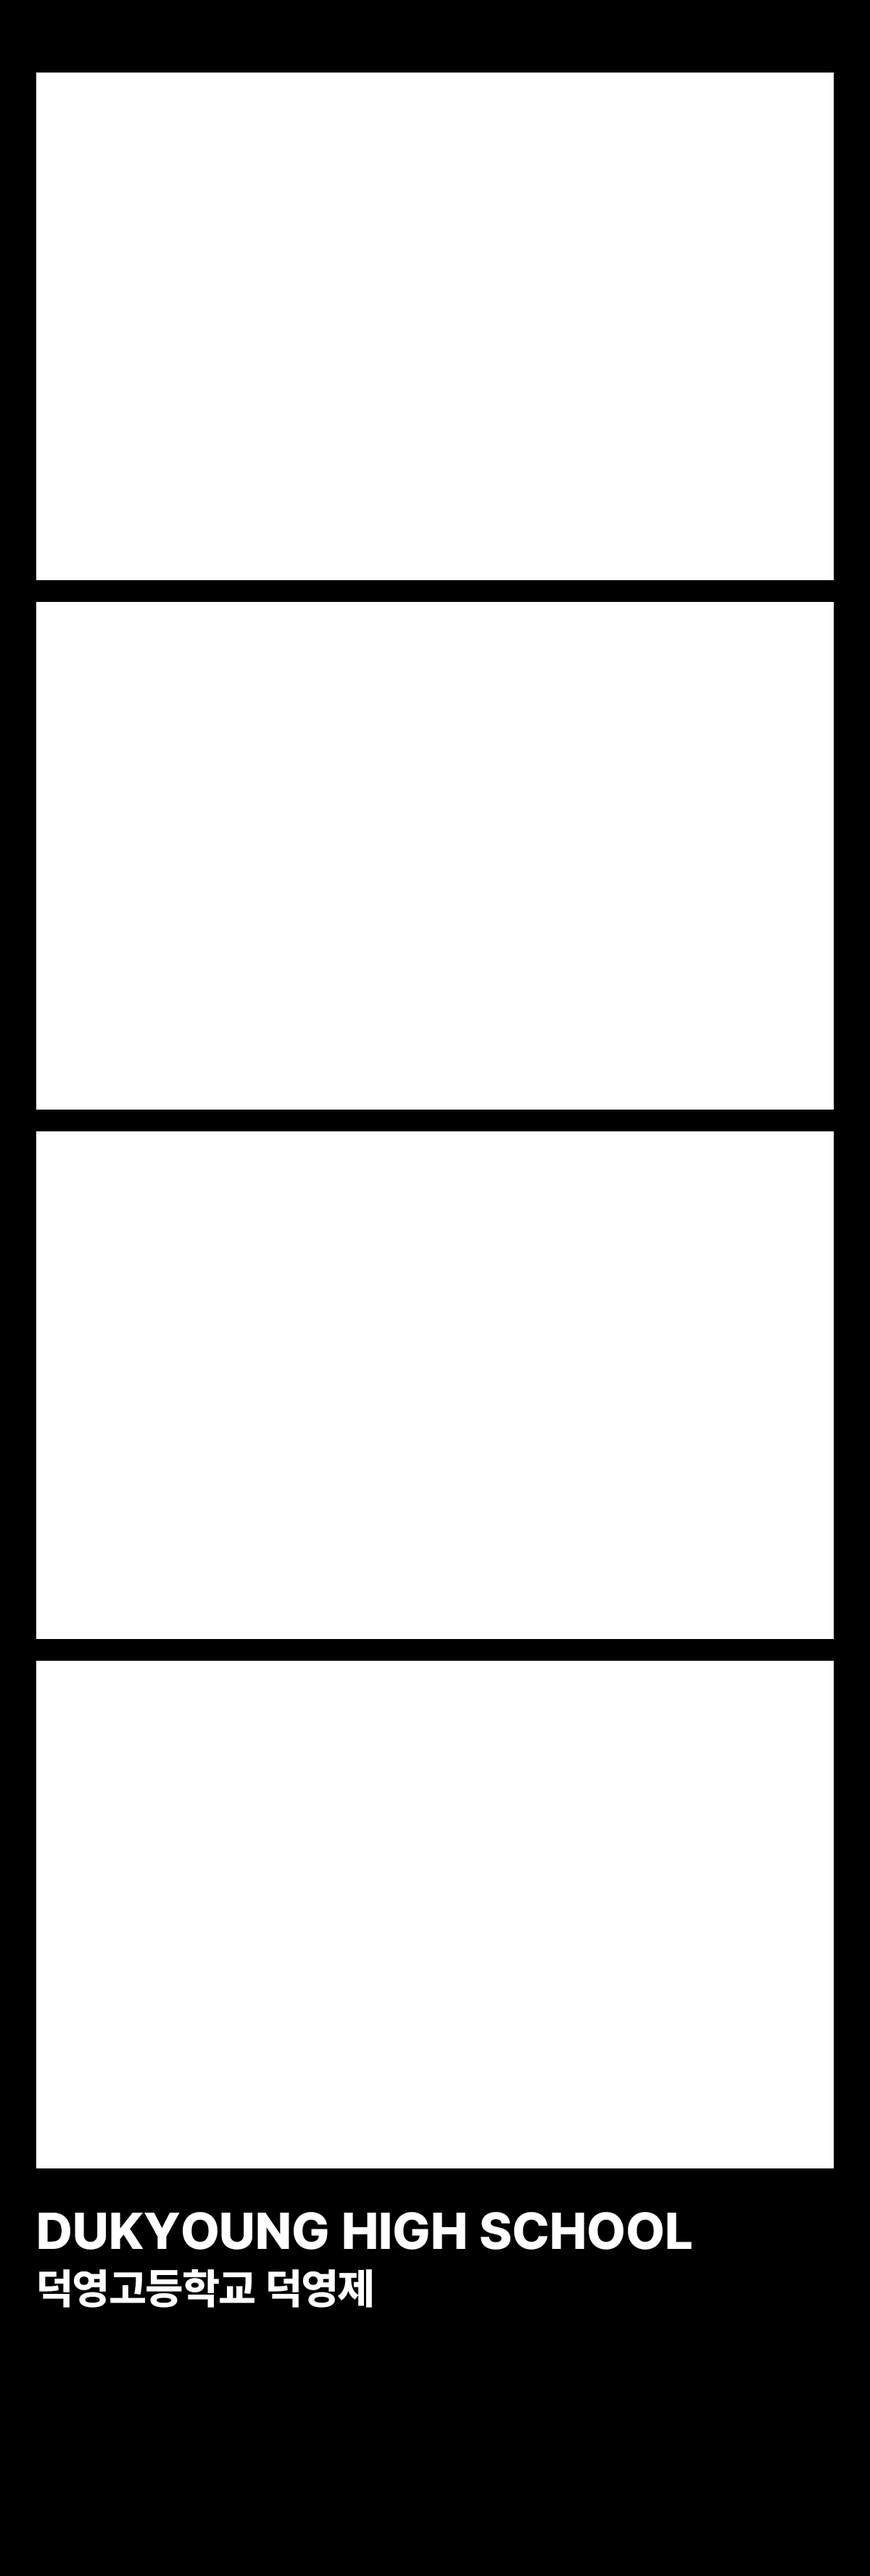
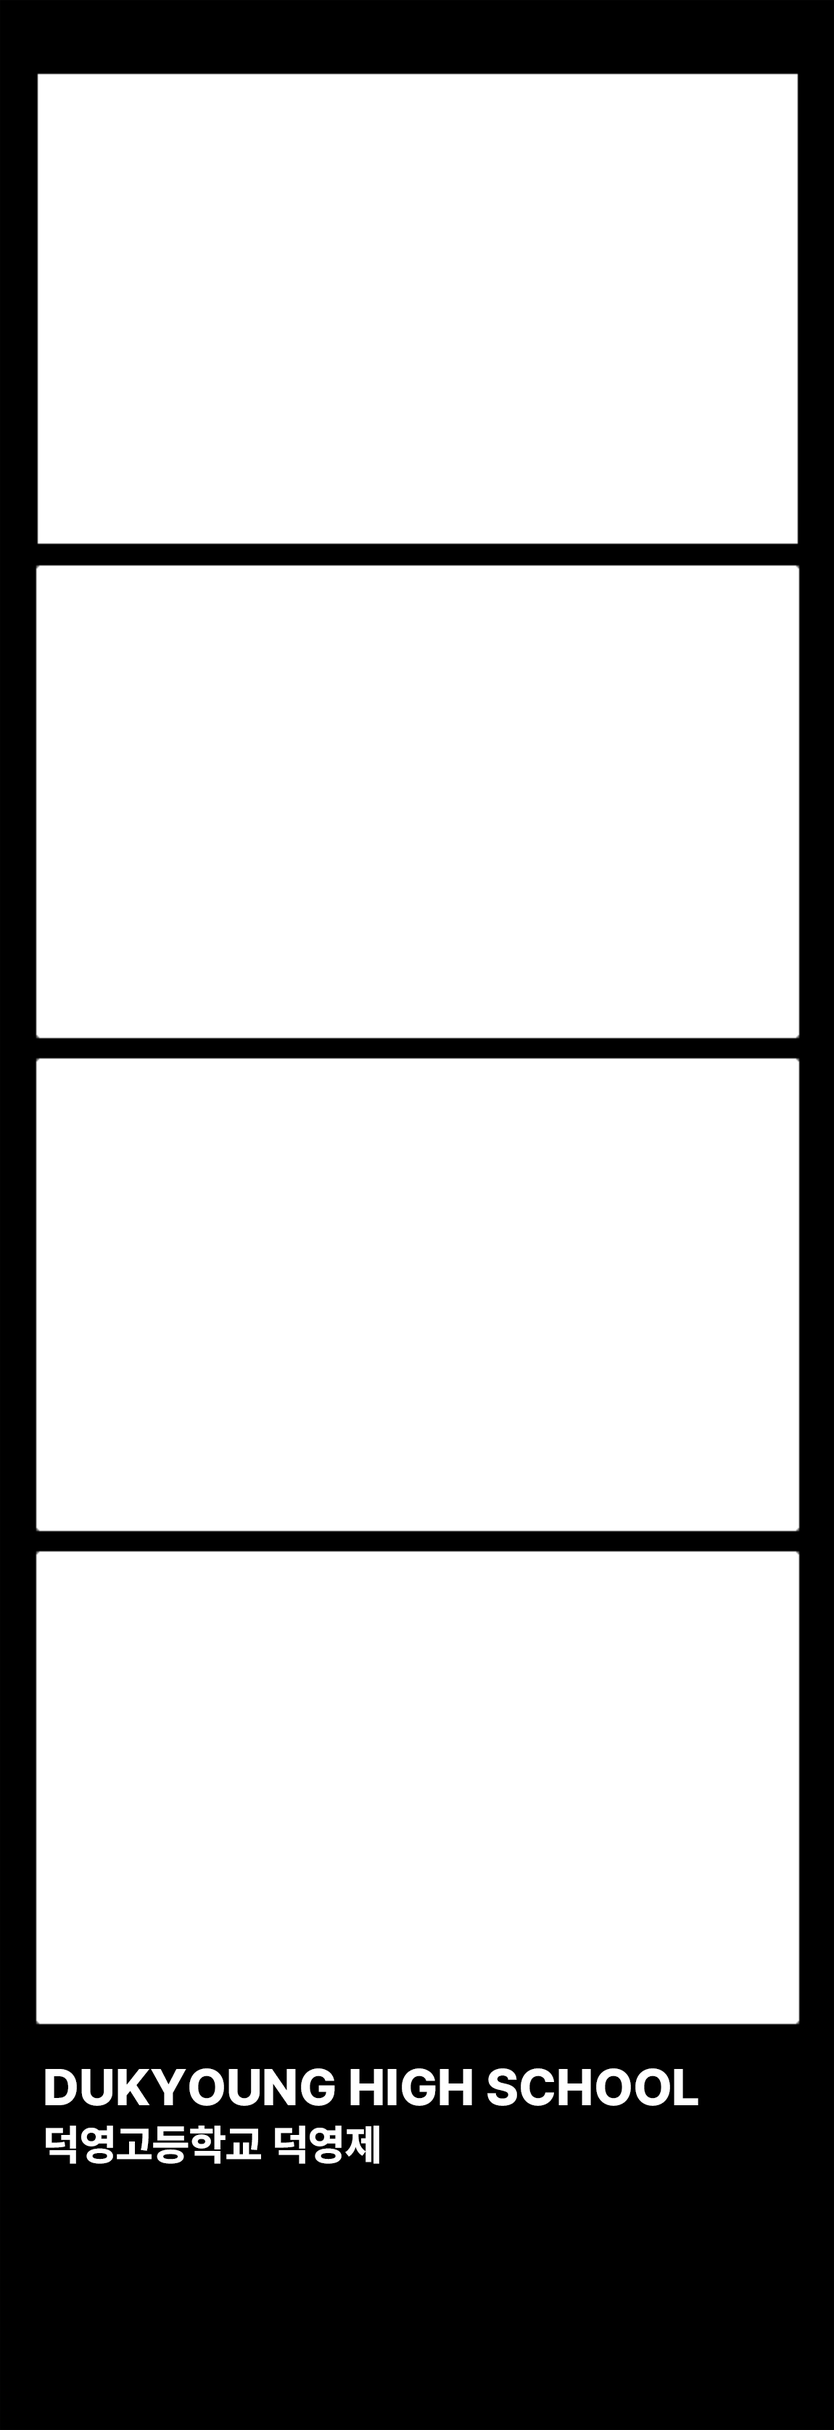
Feat: Print!

Changed region(s): [[0.0304, 0.031, 0.9739, 0.8998]]

diff --git a/app.py b/app.py
@@ -7,7 +7,7 @@ import os
 from dotenv import load_dotenv
 import json
 from io import BytesIO
-from time import sleep
+from printer import printer
 
 load_dotenv()
 
@@ -82,9 +82,26 @@ class app:
 
         self.window.update()
 
+    def readyCamera(self):
+        self.readyPage = tk.Frame(self.window, bg="white")
+        self.readyPage.pack(expand=True)
+
+        self.readyPageTitle = tk.Label(
+            self.readyPage,
+            text="준비 중...",
+            font=("Arial", 100),
+            fg="black",
+            bg="white",
+        )
+        self.readyPageTitle.pack(pady=100)
+
+        self.window.update()
+
     def startCamera(self, event, frame):
         self.framePage.destroy()
         self.frame = frame
+
+        self.readyCamera()
 
         self.cameraPage = tk.Frame(self.window, bg="white")
         self.cameraPage.pack(expand=True)
@@ -97,8 +114,9 @@ class app:
         self.images = ["", "", "", ""]
 
         self.window.after(10, self.updateCamera)
+        self.readyPage.destroy()
 
-        self.defaultTimer = 8
+        self.defaultTimer = 1
         self.timer = self.defaultTimer
         self.index = 0
 
@@ -139,7 +157,7 @@ class app:
 
     def centerCrop(self, image):
         height, width = image.shape[:2]
-        targetHeight, targetWidth = 784, 1232
+        targetHeight, targetWidth = 650, 1050
 
         top = (height - targetHeight) // 2
         left = (width - targetWidth) // 2
@@ -203,15 +221,18 @@ class app:
 
         self.window.update()
         self.printer()
-        sleep(30)
 
-        self.window.destroy()
-        app()
+        self.window.after(30000, self.restart)
 
     def printer(self):
-        pass
+        self.printImage.save(f"./print/{self.req['id']}.png")
+        self.printImage.save(os.path.join('print', f"{self.req['id']}.png"))
+        
+        printer(os.path.join('print', f"{self.req['id']}.png"))
 
-        # TODO: Print image
+    def restart(self):
+        self.window.destroy()
+        app()
 
     def toggleFullScreen(self, event):
         self.fullScreenState = not self.fullScreenState
@@ -223,4 +244,7 @@ class app:
 
 
 if __name__ == "__main__":
+    if os.path.exists("print") == False:
+        os.mkdir("print")
+
     app = app()

diff --git a/printer.py b/printer.py
@@ -1,0 +1,23 @@
+import win32print
+import win32api
+import os
+
+def printer(file):
+    printerName = win32print.GetDefaultPrinter()
+    printerInfo = win32print.GetPrinter(printerName, 2)
+
+    if not os.path.isfile(file):
+        return False
+    else:
+        # 프린트 작업 설정
+        printerInfo['pPortName'] = printerName
+        printerInfo['pDatatype'] = 'RAW'
+        
+        hprinter = win32print.OpenPrinter(printerName)
+        win32print.StartDocPrinter(hprinter, 1, ('Print Job', None, 'RAW'))
+        win32print.StartPagePrinter(hprinter)
+        with open(file, 'rb') as f:
+            win32api.ShellExecute(0, 'print', file, None, '.', 0)
+        win32print.EndPagePrinter(hprinter)
+        win32print.EndDocPrinter(hprinter)
+        win32print.ClosePrinter(hprinter)
